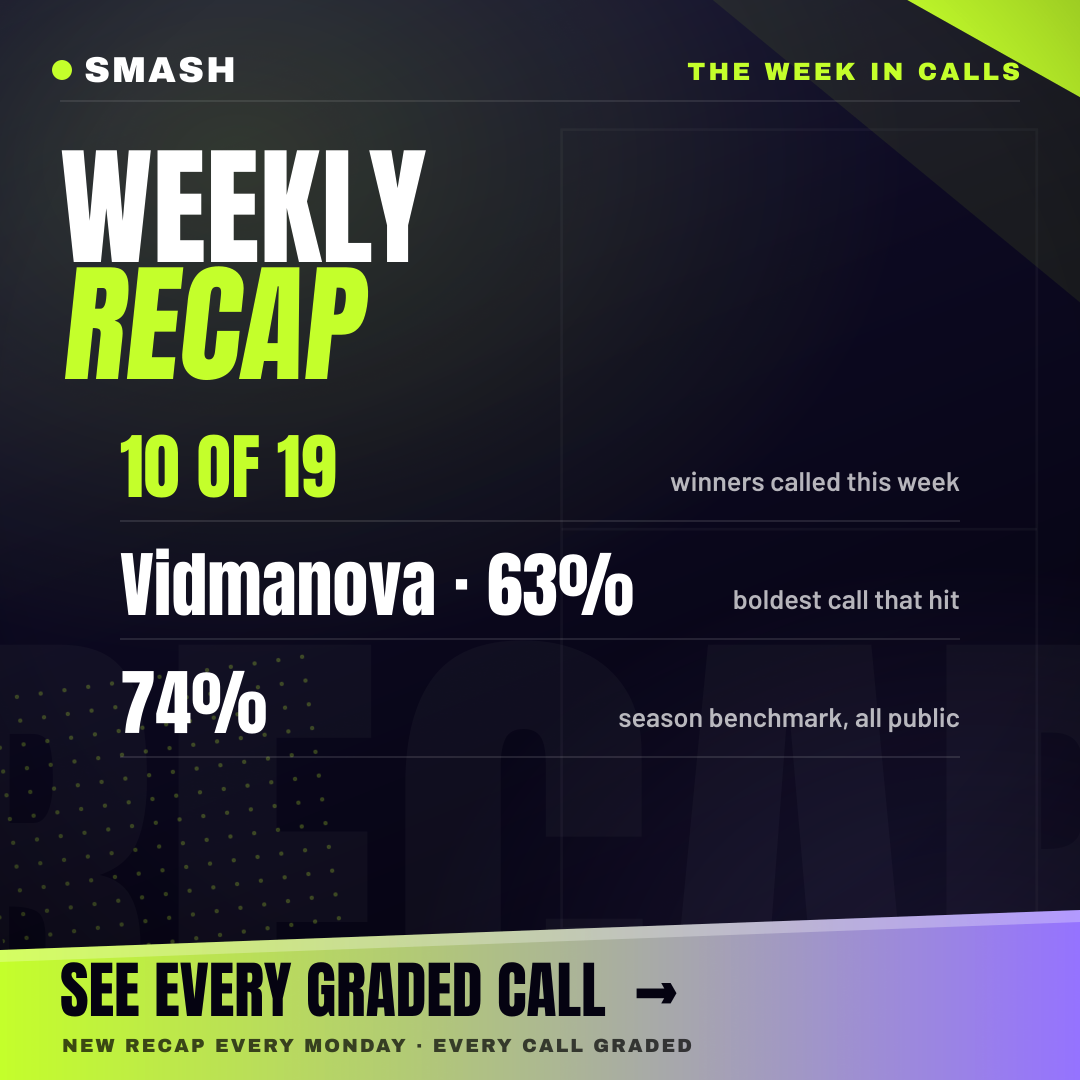
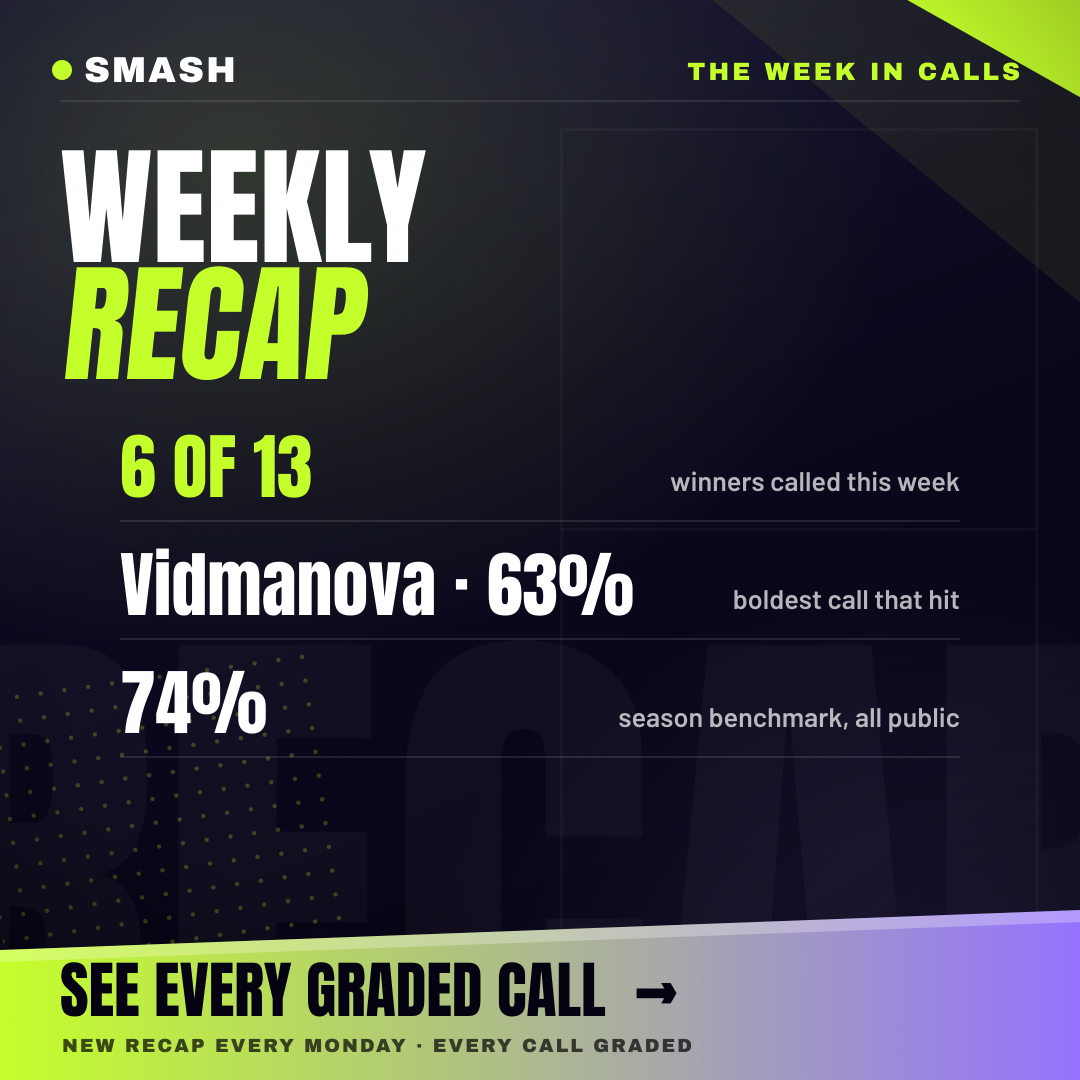
shareable finish

Changed region(s): [[0.0917, 0.3972, 0.3361, 0.4583]]

diff --git a/data-pipeline/buildShareAssets.js b/data-pipeline/buildShareAssets.js
@@ -2398,6 +2398,12 @@ async function run() {
     for (const a of (prevManifest.assets || [])) {
       if (a.category === 'weekly' && fs.existsSync(path.join(OUT, a.file))) assets.push(a);
     }
+    // The caption travels with the cards. Carrying the images forward without
+    // it left the weekly section on the admin page with a cover, a closer and
+    // nothing to paste, six days out of seven.
+    if (prevManifest.captions?.weekly && assets.some((a) => a.category === 'weekly')) {
+      captions.weekly = prevManifest.captions.weekly;
+    }
   }
 
   // Motion assets (.mp4) are appended by buildMotionAssets AFTER this script
@@ -2544,6 +2550,109 @@ async function run() {
       }
     }
   }
+
+
+  // ── WEEKLY: the bookends ────────────────────────────────────────────────
+  // Built after the week's cards so the cover can quote the week's own
+  // number, and only when there is a week to wrap: a cover in front of
+  // nothing is worse than no cover.
+  {
+    const weekCards = assets.filter((a) => a.category === 'weekly');
+    const hasBookend = weekCards.some((a) => a.type === 'carousel-cover');
+    if (weekCards.length && !hasBookend) {
+      const weekMs = (track.matches || []).filter((m) => (Date.now() - new Date(m.date).getTime()) < 7 * 864e5);
+      const correct = weekMs.filter((m) => pickCorrect(m)).length;
+      const pill = weekMs.length
+        ? `${correct} OF ${weekMs.length} WINNERS CALLED`
+        : 'EVERY CALL GRADED IN PUBLIC';
+      await sectionCoverCard('cover-weekly.png', {
+        event: null,
+        kicker: 'Seven days, graded',
+        sub: 'WHAT WE GOT RIGHT, AND WRONG',
+        line1: 'THE',
+        line2: 'WEEK',
+        pill,
+        palette: 'receipts',
+      });
+      add('cover-weekly.png', 'carousel-cover', 'square', 'weekly',
+        `The week in calls${weekMs.length ? `: ${correct} of ${weekMs.length} winners` : ''}. The bold ones that hit, the confident ones that did not, and what backing every call would have returned. ${SITE}/track-record ${tags}`,
+        'Weekly recap carousel cover.', 0);
+
+      await sectionCloserCard('closer-weekly.png', {
+        event: null,
+        kicker: 'Seven days, graded',
+        heroSub: 'Same time next week',
+        hero: 'EVERY CALL',
+        lines: [
+          'Locked before play. Graded after. Published either way.',
+          'The bad weeks go up on the same schedule as the good ones.',
+        ],
+        palette: 'receipts',
+        cta: 'THE WHOLE RECORD  →',
+      });
+      add('closer-weekly.png', 'carousel-closer', 'square', 'weekly',
+        `Every call we make is locked before play and graded after, win or lose. The whole record: ${SITE}/track-record ${tags}`,
+        'Weekly recap carousel closer.', 999);
+
+      captions.weekly = [
+        `The week in calls${weekMs.length ? `: ${correct} of ${weekMs.length} winners called` : ''}.`,
+        'The boldest ones that hit, the confident ones that did not, and what backing every single call would have returned.',
+        `A good week proves nothing on its own. The point is that we publish the bad ones too: ${SITE}/track-record`,
+        tags,
+      ].join('\n\n');
+    }
+  }
+
+
+    // ── RECAP: the one nobody saw coming ──────────────────────────────────
+    //
+    // Yesterday's biggest surprise, measured on OUR own number: the match
+    // where the player we rated highest lost anyway. Drawn from every graded
+    // match on the day, not just the ones we called - a first-round exit by a
+    // former champion is the story whether or not we staked it, and pretending
+    // otherwise would make this a highlight reel of our own hits.
+    //
+    // Gated at 70%. Below that we were not confident, so nothing about the
+    // result is unexpected, and a card manufacturing a shock out of a coin
+    // flip is exactly the kind of thing this whole product exists not to do.
+    // Most days there is no card here, which is correct.
+    {
+      const graded = (preds.predictions || [])
+        .filter((p) => (p.status === 'won' || p.status === 'lost'));
+      const gDays = [...new Set(graded.map((p) => String(p.date).slice(0, 10)))].sort();
+      const gDay = gDays[gDays.length - 1];
+      const misses = graded
+        .filter((p) => String(p.date).slice(0, 10) === gDay && p.status === 'lost')
+        .sort((a, b) => b.favProb - a.favProb);
+      const shock = misses[0];
+      if (shock && shock.favProb >= (Number(process.env.SHOCK_MIN) || 0.70)) {
+        const loser = last(shock.favName);
+        const winnerId = shock.winner;
+        const winner = last(winnerId === shock.p1 ? shock.name1 : shock.name2);
+        // What the market thought, vig stripped, so we can say whether this
+        // was our miss alone or one the whole room got wrong.
+        const mkt = marketProbOfOurPick(shock);
+        const declined = ledgerNoCall(shock);
+        await reportCard({
+          eyebrowText: `Yesterday · ${gDay}`,
+          headline1: loser.toUpperCase(),
+          headline2: 'WENT OUT',
+          stats: [
+            { value: `${Math.round(shock.favProb * 100)}%`, label: `our number on ${loser} before play` },
+            ...(mkt ? [{ value: `${Math.round(mkt * 100)}%`, label: mkt >= 0.6 ? 'the market had them there too' : 'the market was less sure' }] : []),
+            { value: winner, label: `won it${shock.score ? ` ${shock.score}` : ''}` },
+            { value: declined ? 'NO CALL' : 'ON THE RECORD', label: declined ? 'too close for us to claim, graded anyway' : 'our miss, published like every other' },
+          ],
+          footNote: 'locked before play · graded after · we publish the misses too',
+          file: 'unexpected.png',
+          accent: PAL.upset.key,
+          cta: '',
+        });
+        add('unexpected.png', 'unexpected', 'square', 'recap',
+          `Nobody saw this one coming: we had ${loser} at ${Math.round(shock.favProb * 100)}%${mkt ? ` and the market had them at ${Math.round(mkt * 100)}%` : ''}. ${winner} won it${shock.score ? ` ${shock.score}` : ''}. ${declined ? 'We declined to call this one, and it still goes on the record.' : 'Our miss, and it goes up the same as every hit.'} ${SITE}/track-record ${tags}`,
+          `${loser} lost after we rated them ${Math.round(shock.favProb * 100)}%.`);
+      }
+    }
 
   // ── MOMENTS: milestone crossings + perfect days ─────────────────────────
   const prevN = prevManifest.seasonN || 0;
@@ -2830,9 +2939,12 @@ async function run() {
 
   const recapCards = assets.filter((a) => a.category === 'recap');
   if (recapCards.length) {
+    const hadShock = assets.some((a) => a.file === 'unexpected.png');
     captions.recap = [
       `How yesterday actually went - the calls, the misses, and what backing every one of them would have returned.`,
-      'We publish the bad days on the same schedule as the good ones.',
+      hadShock
+        ? 'Including the one nobody saw coming.'
+        : 'We publish the bad days on the same schedule as the good ones.',
       `The whole record: ${SITE}/track-record`,
       tags,
     ].join('\n\n');
